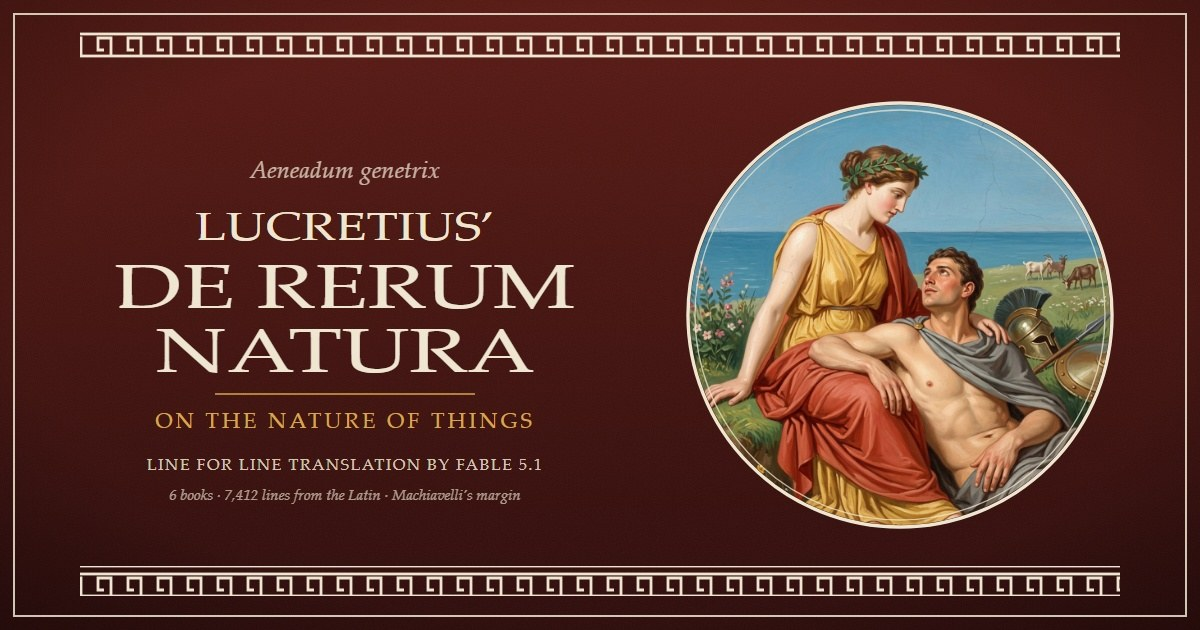
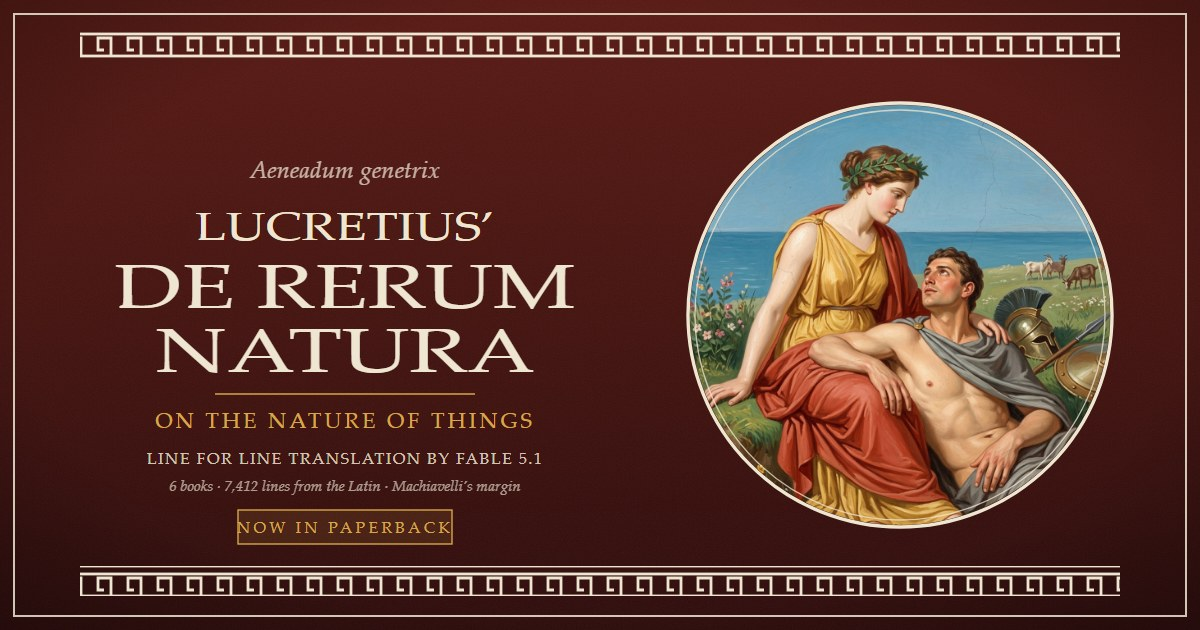
Web: social card says "Now in paperback"; versioned preview URL
The link-preview card gains a "Now in paperback" label. Its URL in og:image
now carries a content hash (social.jpg?v=...), because social sites cache
previews by URL and were still showing the retired Epicurus card.

Changed region(s): [[0.1233, 0.7238, 0.4625, 0.8746]]

diff --git a/docs/index.html b/docs/index.html
@@ -10,7 +10,7 @@
 <meta property="og:description" content="Lucretius, On the Nature of Things, complete in a line-for-line English translation with notes, and Machiavelli's margin. Free to read online.">
 <meta property="og:site_name" content="De Rerum Natura — On the Nature of Things">
 <meta property="og:url" content="https://dererumnatura.org/">
-<meta property="og:image" content="https://dererumnatura.org/social.jpg">
+<meta property="og:image" content="https://dererumnatura.org/social.jpg?v=b985b657">
 <meta property="og:image:width" content="1200">
 <meta property="og:image:height" content="630">
 <meta property="og:type" content="book">

diff --git a/docs/read/how-machiavelli-read-lucretius.html b/docs/read/how-machiavelli-read-lucretius.html
@@ -11,7 +11,7 @@
 <meta property="og:type" content="article">
 <meta property="og:site_name" content="De Rerum Natura — On the Nature of Things">
 <meta property="og:url" content="https://dererumnatura.org/read/how-machiavelli-read-lucretius.html">
-<meta property="og:image" content="https://dererumnatura.org/social.jpg">
+<meta property="og:image" content="https://dererumnatura.org/social.jpg?v=b985b657">
 <meta property="og:image:width" content="1200">
 <meta property="og:image:height" content="630">
 <meta name="twitter:card" content="summary_large_image">

diff --git a/docs/read/book-01.html b/docs/read/book-01.html
@@ -11,7 +11,7 @@
 <meta property="og:type" content="article">
 <meta property="og:site_name" content="De Rerum Natura — On the Nature of Things">
 <meta property="og:url" content="https://dererumnatura.org/read/book-01.html">
-<meta property="og:image" content="https://dererumnatura.org/social.jpg">
+<meta property="og:image" content="https://dererumnatura.org/social.jpg?v=b985b657">
 <meta property="og:image:width" content="1200">
 <meta property="og:image:height" content="630">
 <meta name="twitter:card" content="summary_large_image">

diff --git a/docs/read/book-02.html b/docs/read/book-02.html
@@ -11,7 +11,7 @@
 <meta property="og:type" content="article">
 <meta property="og:site_name" content="De Rerum Natura — On the Nature of Things">
 <meta property="og:url" content="https://dererumnatura.org/read/book-02.html">
-<meta property="og:image" content="https://dererumnatura.org/social.jpg">
+<meta property="og:image" content="https://dererumnatura.org/social.jpg?v=b985b657">
 <meta property="og:image:width" content="1200">
 <meta property="og:image:height" content="630">
 <meta name="twitter:card" content="summary_large_image">

diff --git a/docs/read/book-03.html b/docs/read/book-03.html
@@ -11,7 +11,7 @@
 <meta property="og:type" content="article">
 <meta property="og:site_name" content="De Rerum Natura — On the Nature of Things">
 <meta property="og:url" content="https://dererumnatura.org/read/book-03.html">
-<meta property="og:image" content="https://dererumnatura.org/social.jpg">
+<meta property="og:image" content="https://dererumnatura.org/social.jpg?v=b985b657">
 <meta property="og:image:width" content="1200">
 <meta property="og:image:height" content="630">
 <meta name="twitter:card" content="summary_large_image">

diff --git a/docs/read/book-04.html b/docs/read/book-04.html
@@ -11,7 +11,7 @@
 <meta property="og:type" content="article">
 <meta property="og:site_name" content="De Rerum Natura — On the Nature of Things">
 <meta property="og:url" content="https://dererumnatura.org/read/book-04.html">
-<meta property="og:image" content="https://dererumnatura.org/social.jpg">
+<meta property="og:image" content="https://dererumnatura.org/social.jpg?v=b985b657">
 <meta property="og:image:width" content="1200">
 <meta property="og:image:height" content="630">
 <meta name="twitter:card" content="summary_large_image">

diff --git a/docs/read/book-05.html b/docs/read/book-05.html
@@ -11,7 +11,7 @@
 <meta property="og:type" content="article">
 <meta property="og:site_name" content="De Rerum Natura — On the Nature of Things">
 <meta property="og:url" content="https://dererumnatura.org/read/book-05.html">
-<meta property="og:image" content="https://dererumnatura.org/social.jpg">
+<meta property="og:image" content="https://dererumnatura.org/social.jpg?v=b985b657">
 <meta property="og:image:width" content="1200">
 <meta property="og:image:height" content="630">
 <meta name="twitter:card" content="summary_large_image">

diff --git a/docs/read/book-06.html b/docs/read/book-06.html
@@ -11,7 +11,7 @@
 <meta property="og:type" content="article">
 <meta property="og:site_name" content="De Rerum Natura — On the Nature of Things">
 <meta property="og:url" content="https://dererumnatura.org/read/book-06.html">
-<meta property="og:image" content="https://dererumnatura.org/social.jpg">
+<meta property="og:image" content="https://dererumnatura.org/social.jpg?v=b985b657">
 <meta property="og:image:width" content="1200">
 <meta property="og:image:height" content="630">
 <meta name="twitter:card" content="summary_large_image">

diff --git a/docs/read/margin.html b/docs/read/margin.html
@@ -11,7 +11,7 @@
 <meta property="og:type" content="article">
 <meta property="og:site_name" content="De Rerum Natura — On the Nature of Things">
 <meta property="og:url" content="https://dererumnatura.org/read/margin.html">
-<meta property="og:image" content="https://dererumnatura.org/social.jpg">
+<meta property="og:image" content="https://dererumnatura.org/social.jpg?v=b985b657">
 <meta property="og:image:width" content="1200">
 <meta property="og:image:height" content="630">
 <meta name="twitter:card" content="summary_large_image">

diff --git a/docs/read/index.html b/docs/read/index.html
@@ -11,7 +11,7 @@
 <meta property="og:type" content="article">
 <meta property="og:site_name" content="De Rerum Natura — On the Nature of Things">
 <meta property="og:url" content="https://dererumnatura.org/read/index.html">
-<meta property="og:image" content="https://dererumnatura.org/social.jpg">
+<meta property="og:image" content="https://dererumnatura.org/social.jpg?v=b985b657">
 <meta property="og:image:width" content="1200">
 <meta property="og:image:height" content="630">
 <meta name="twitter:card" content="summary_large_image">

diff --git a/docs/api/index.html b/docs/api/index.html
@@ -11,7 +11,7 @@
 <meta property="og:type" content="article">
 <meta property="og:site_name" content="De Rerum Natura — On the Nature of Things">
 <meta property="og:url" content="https://dererumnatura.org/api/">
-<meta property="og:image" content="https://dererumnatura.org/social.jpg">
+<meta property="og:image" content="{social_url()}">
 <meta property="og:image:width" content="1200">
 <meta property="og:image:height" content="630">
 <meta name="twitter:card" content="summary_large_image">

diff --git a/tools/build_web.py b/tools/build_web.py
@@ -460,6 +460,13 @@ def figure(it: dict, n: int) -> str:
 # Page furniture
 
 
+def social_url() -> str:
+    """The link-preview image, versioned by its content: social sites cache
+    previews by image URL, so a new card needs a new URL to be fetched."""
+    v = hashlib.md5((DOCS / "social.jpg").read_bytes()).hexdigest()[:8]
+    return f"{SITE}/social.jpg?v={v}"
+
+
 def css_version() -> str:
     return hashlib.md5(CSS.encode("utf-8")).hexdigest()[:8]
 
@@ -473,7 +480,7 @@ def social_meta(title: str, desc: str, path: str) -> str:
 <meta property="og:type" content="article">
 <meta property="og:site_name" content="{html.escape(SITE_NAME)}">
 <meta property="og:url" content="{url}">
-<meta property="og:image" content="{SITE}/social.jpg">
+<meta property="og:image" content="{social_url()}">
 <meta property="og:image:width" content="1200">
 <meta property="og:image:height" content="630">
 <meta name="twitter:card" content="summary_large_image">
@@ -1175,7 +1182,7 @@ API_LANDING = """\
 <meta property="og:type" content="article">
 <meta property="og:site_name" content="De Rerum Natura — On the Nature of Things">
 <meta property="og:url" content="{SITE}/api/">
-<meta property="og:image" content="{SITE}/social.jpg">
+<meta property="og:image" content="{social_url()}">
 <meta property="og:image:width" content="1200">
 <meta property="og:image:height" content="630">
 <meta name="twitter:card" content="summary_large_image">
@@ -1323,7 +1330,7 @@ def build_landing(books: dict[int, dict], margin: list[dict], total: int,
 <meta property="og:description" content="Lucretius, On the Nature of Things, complete in a line-for-line English translation with notes, and Machiavelli's margin. Free to read online.">
 <meta property="og:site_name" content="{html.escape(SITE_NAME)}">
 <meta property="og:url" content="{SITE}/">
-<meta property="og:image" content="{SITE}/social.jpg">
+<meta property="og:image" content="{social_url()}">
 <meta property="og:image:width" content="1200">
 <meta property="og:image:height" content="630">
 <meta property="og:type" content="book">
